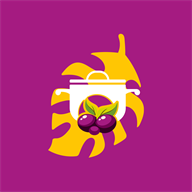
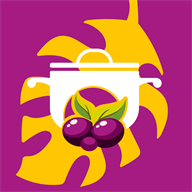
fix(pwa): REF-MOBILE-01 - recorte mais ousado do icone (nivel profissional)
Dono avaliou o icone da Onda 2 como funcional mas nao profissional: o
simbolo (pote+acai) ocupava so ~49%x64% do canvas, com muita margem
magenta vazia nas 4 bordas (medido por varredura de pixels, nao
estimado). Recorte novo, nativo/sem upscale (680x680 do 1080x1080
original, centro (555,565), sem distorcer proporcao) - preenchimento
sobe pra ~68%x80%+, cortando so as pontas da folha decorativa
(elemento secundario); o pote e o acai (nucleo identificavel) nunca
sao cortados.

Validado ANTES de exportar via mockup HTML (aba do navegador, Android/
iOS home screen, 3 mascaras de Adaptive Icon com zona de seguranca
marcada, PWA instalado desktop, favicon 16px real ampliado sem
suavizacao) - aprovado pelo dono, so entao os assets foram gerados.

public/icon-encanto.png agora E o novo recorte (arquivo bruto original
do dono recuperavel via git history, commit 7e1e6fd). Os 6 arquivos
derivados (icon-192/512, apple-touch-icon, favicon.ico/32/16) foram
todos regenerados a partir dele. Build limpo + test:domain 29/29 (so
public/ mudou, zero src/).

diff --git a/docs/adr/REF-MOBILE-01-fundacao-mobile.md b/docs/adr/REF-MOBILE-01-fundacao-mobile.md
@@ -197,6 +197,18 @@ D2), `apple-touch-icon.png` (180×180, opaco), `favicon.ico` (D3) + `favicon-32.
 (fallback `<link>` explícito). Redimensionamento em alta qualidade (`HighQualityBicubic`), sem reencode
 com perda adicional. `<link rel="icon"/apple-touch-icon">` em `index.html`. Commit `7e1e6fd`.
 
+**Ajuste pós-aprovação (mesma Onda, revisão de enquadramento):** o dono avaliou a v1 como funcional mas
+"visualmente ainda não profissional" — o símbolo (pote+açaí) ocupava só ~49%×64% do canvas, deixando
+margem magenta demais nas quatro bordas (medido por varredura de pixels, não estimado). Recorte novo,
+nativo (sem upscale — 680×680 do 1080×1080 original, centro (555,565), sem distorcer proporção):
+preenchimento sobe pra ~68%×80%+, cortando só as pontas da folha decorativa (elemento secundário) nas
+bordas — o pote e o açaí (o núcleo realmente identificável) nunca são cortados. `public/icon-encanto.png`
+passa a SER esse novo recorte (o arquivo bruto original do dono continua recuperável via git history,
+commit `7e1e6fd`); os 6 arquivos derivados foram todos regenerados a partir dele. Validado ANTES de
+exportar via mockup HTML (aba do navegador, Android/iOS home screen, 3 máscaras de Adaptive Icon com zona
+de segurança marcada, PWA instalado desktop, favicon 16px real ampliado sem suavização) — aprovado pelo
+dono antes deste commit. `test:domain` 29/29 após a troca (só `public/` mudou, zero `src/`).
+
 ## Onda 3 — Head mobile/SEO
 
 `viewport-fit=cover` + remoção de `maximum-scale` (D4); `theme-color`; `mobile-web-app-capable` +

diff --git a/docs/ref/REF-MOBILE-01-progress.md b/docs/ref/REF-MOBILE-01-progress.md
@@ -92,3 +92,14 @@ pelas validações próprias das Ondas 5–6. Zero regressão em qualquer camada
 - Checklist de validação manual em dispositivo real (Android Chrome, Samsung Internet, Safari iOS) +
   confirmação de login Google real — a entregar ao dono, pós-deploy.
 - Push + deploy (Vercel) + validação em produção + encerramento formal.
+
+## Ajuste pós-encerramento — refinamento visual do ícone
+
+Status: ✅ CONCLUÍDO. Dono avaliou o ícone da Onda 2 como "funcional mas não profissional" (símbolo
+ocupava só ~49%×64% do canvas). Recorte novo, nativo/sem upscale (680×680 do 1080×1080 original), medido
+por varredura de pixels antes e depois — preenchimento sobe pra ~68%×80%+, cortando só as pontas da folha
+decorativa (a folha, não o pote/açaí). Validado ANTES de exportar via mockup HTML (artifact — aba do
+navegador, Android/iOS home screen, 3 máscaras de Adaptive Icon com zona de segurança, PWA instalado
+desktop, favicon 16px real), aprovado pelo dono, só então os 6 arquivos derivados foram regenerados.
+`public/icon-encanto.png` agora É o novo recorte (arquivo bruto original recuperável via git history,
+commit `7e1e6fd`). Build limpo + `test:domain` 29/29 (só `public/` mudou).
